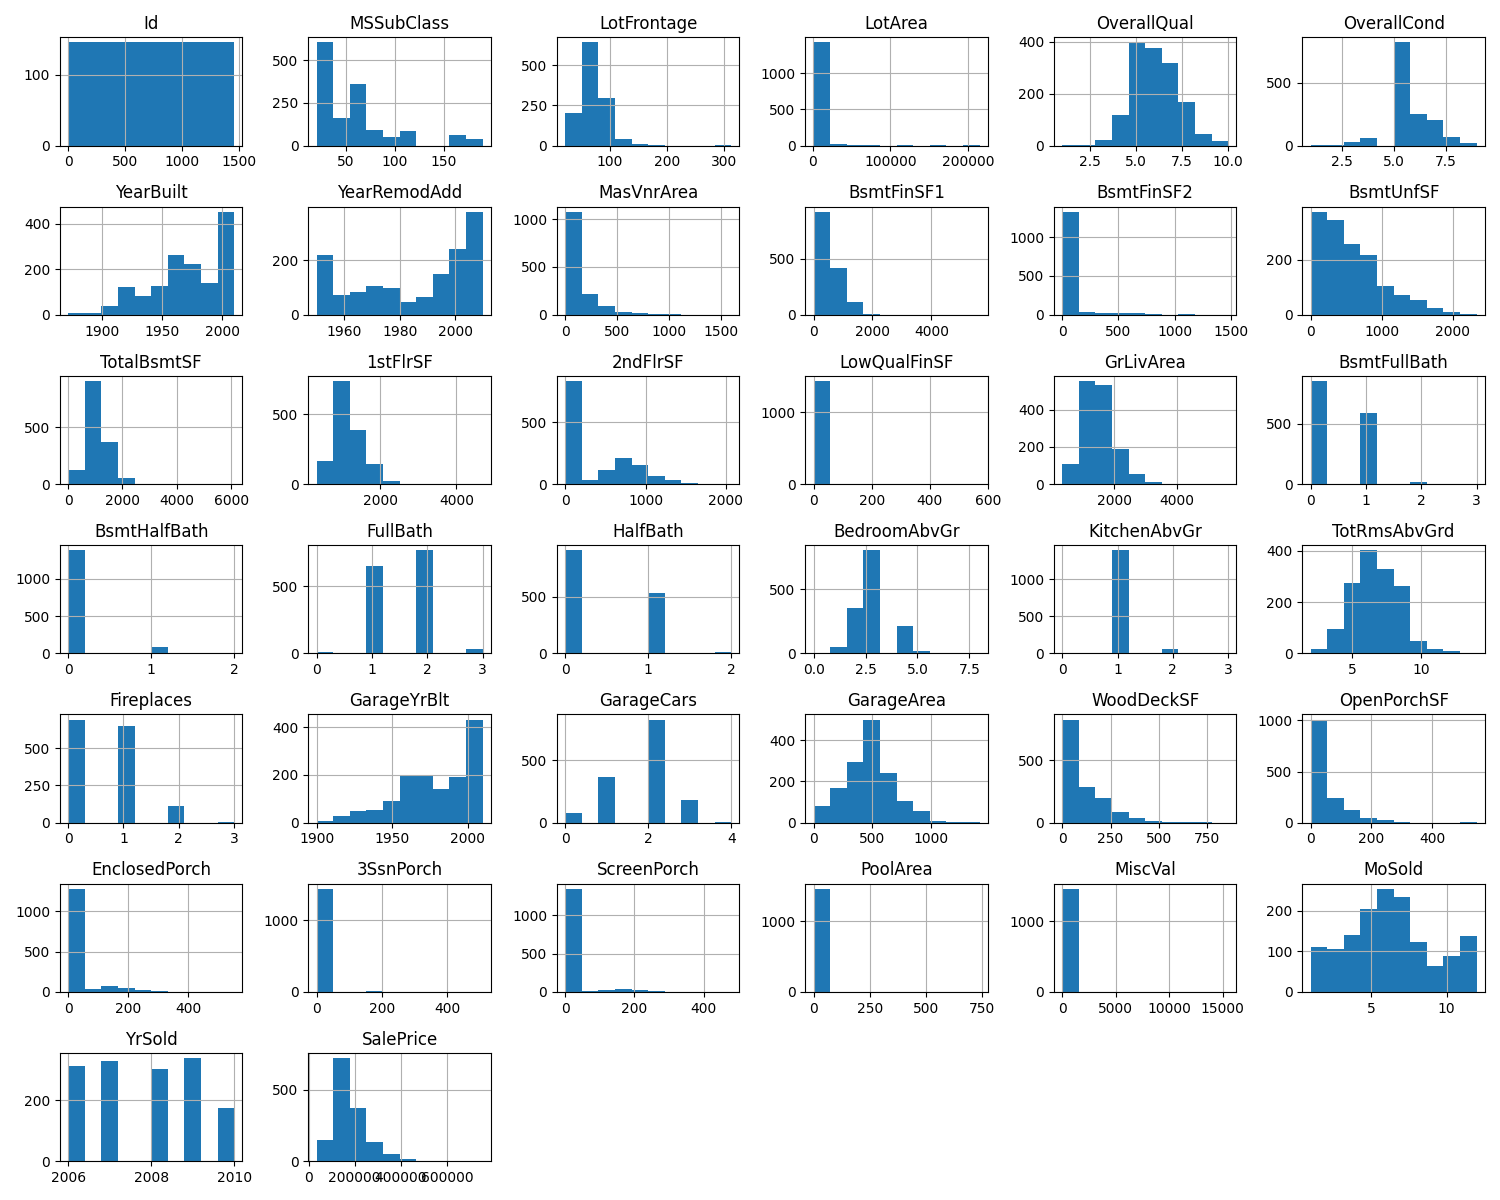
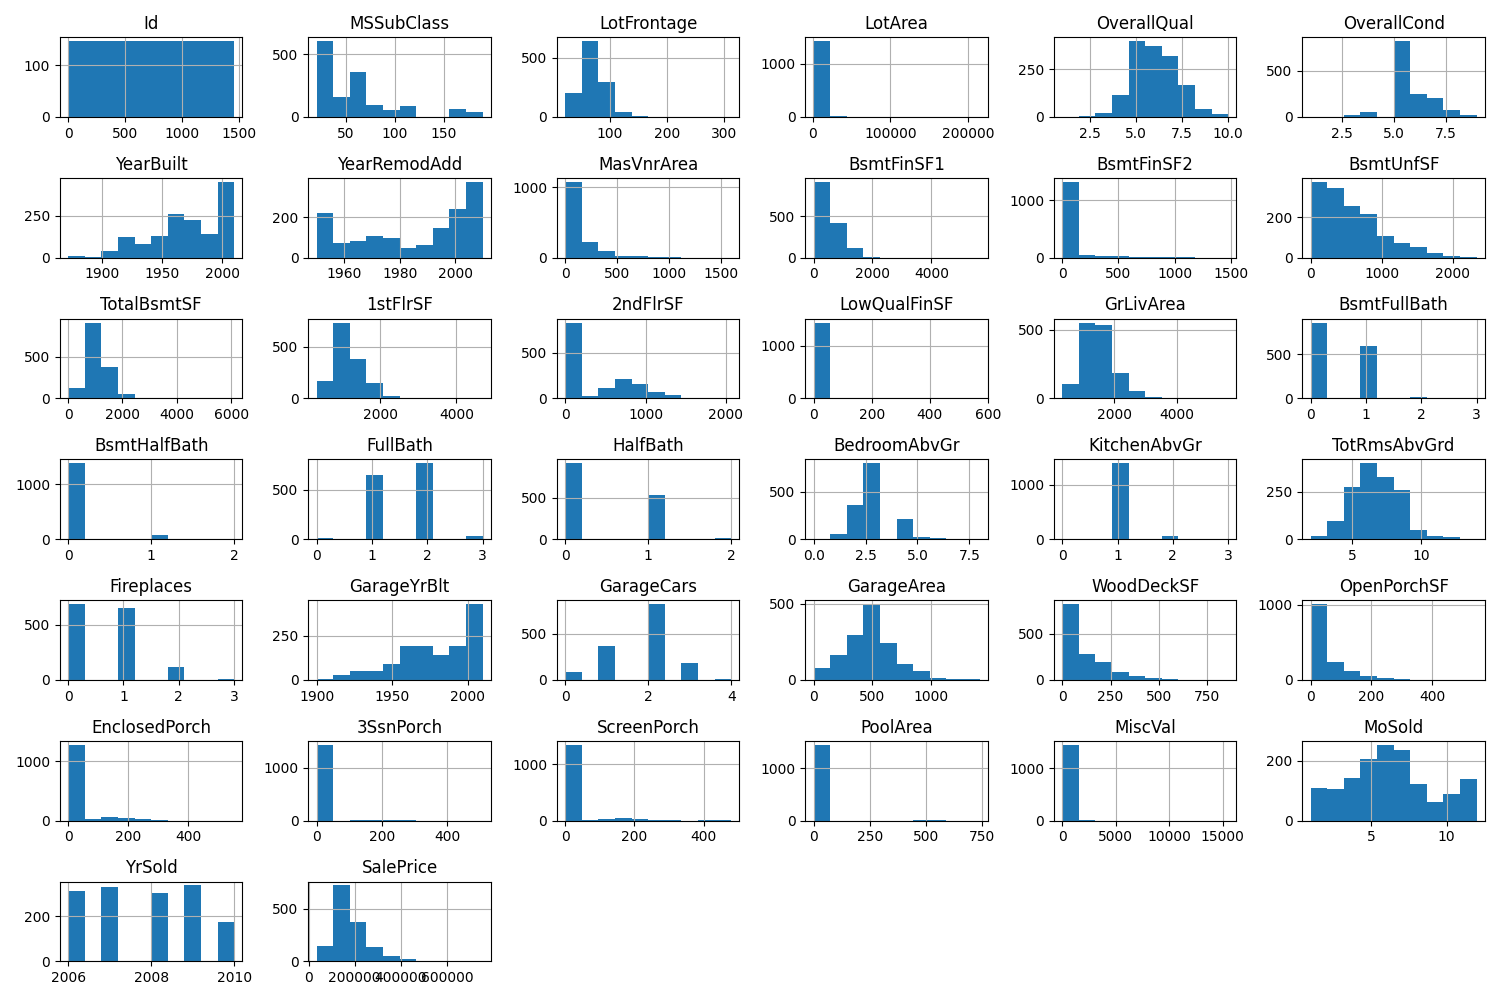
Revision del script en el ejercicio Uno deacuardo con las modificaciones del trabajo final

diff --git a/ejercicio1_descriptivo.py b/ejercicio1_descriptivo.py
@@ -21,15 +21,7 @@ os.makedirs("output", exist_ok=True)
 
 def cargar_datos(ruta):
     """
-    Carga el dataset desde un fichero CSV.
-
-    Parámetros
-    ----------
-    ruta : str — Ruta al archivo CSV
-
-    Retorna
-    -------
-    df : pd.DataFrame — Dataset cargado
+    Carga el dataset desde un fichero CSV
     """
     return pd.read_csv(ruta)
 
@@ -40,11 +32,12 @@ def cargar_datos(ruta):
 
 def resumen_estructural(df):
     """
-    Muestra información básica del dataset.
+    Muestra información general del dataset
     """
     print("\n--- RESUMEN ESTRUCTURAL ---")
     print(f"Filas: {df.shape[0]}")
     print(f"Columnas: {df.shape[1]}")
+
     print("\nTipos de datos:")
     print(df.dtypes)
 
@@ -58,33 +51,28 @@ def resumen_estructural(df):
 
 def estadisticos_descriptivos(df, target):
     """
-    Calcula estadísticos descriptivos y guarda CSV.
+    Calcula estadísticas principales del dataset
     """
     df.describe().to_csv("output/ej1_descriptivo.csv")
 
-    # IQR
     Q1 = df[target].quantile(0.25)
     Q3 = df[target].quantile(0.75)
     IQR = Q3 - Q1
 
     print("\n--- ESTADÍSTICOS TARGET ---")
-    print(f"IQR ({target}): {IQR}")
-
+    print(f"IQR: {IQR}")
     print(f"Skewness: {df[target].skew()}")
     print(f"Curtosis: {df[target].kurtosis()}")
 
-    return IQR
-
-
 # =============================================================================
-# VISUALIZACIONES NUMÉRICAS
+# VISUALIZACIONES
 # =============================================================================
 
 def graficar_histogramas(df):
     """
-    Genera histogramas de variables numéricas.
+    Histogramas de variables numéricas
     """
-    df.select_dtypes(include=np.number).hist(figsize=(15, 12))
+    df.select_dtypes(include=np.number).hist(figsize=(15, 10))
     plt.tight_layout()
     plt.savefig("output/ej1_histogramas.png")
     plt.close()
@@ -92,16 +80,16 @@ def graficar_histogramas(df):
 
 def graficar_heatmap(df):
     """
-    Genera heatmap de correlaciones.
+    Matriz de correlación
     """
     corr = df.corr(numeric_only=True)
 
     plt.figure(figsize=(12, 8))
     sns.heatmap(corr, cmap="coolwarm", center=0)
     plt.title("Matriz de correlación")
-    plt.savefig("output/ej1_heatmap_correlacion.png")
-    plt.close()
 
+    plt.savefig("output/ej1_heatmap.png")
+    plt.close()
 
 # =============================================================================
 # VARIABLES CATEGÓRICAS
@@ -109,24 +97,13 @@ def graficar_heatmap(df):
 
 def analizar_categoricas(df):
     """
-    Analiza variables categóricas y genera gráficos.
+    Análisis de variables categóricas
     """
-    cat_cols = df.select_dtypes(include=['object', 'string']).columns
+    cat_cols = df.select_dtypes(include=["object", "string"]).columns
 
     for col in cat_cols:
         print(f"\n--- {col} ---")
         print(df[col].value_counts(normalize=True))
-
-    plt.figure(figsize=(15, 10))
-    for i, col in enumerate(cat_cols[:4]):  # limitamos a 4 para no saturar
-        plt.subplot(2, 2, i+1)
-        df[col].value_counts().plot(kind='bar')
-        plt.title(col)
-
-    plt.tight_layout()
-    plt.savefig("output/ej1_categoricas.png")
-    plt.close()
-
 
 # =============================================================================
 # BOXPLOTS Y OUTLIERS
@@ -134,13 +111,14 @@ def analizar_categoricas(df):
 
 def boxplots_por_categoria(df, target):
     """
-    Genera boxplots del target por variables categóricas.
+    Boxplots del target según variables categóricas
     """
-    cat_cols = df.select_dtypes(include=['object', 'string']).columns[:3]
+    cat_cols = df.select_dtypes(include=["object", "string"]).columns[:3]
 
     plt.figure(figsize=(15, 5))
+
     for i, col in enumerate(cat_cols):
-        plt.subplot(1, 3, i+1)
+        plt.subplot(1, 3, i + 1)
         sns.boxplot(x=col, y=target, data=df)
         plt.xticks(rotation=45)
 
@@ -151,7 +129,7 @@ def boxplots_por_categoria(df, target):
 
 def detectar_outliers(df, target):
     """
-    Detecta outliers usando IQR y guarda resultados.
+    Detección de outliers con IQR
     """
     Q1 = df[target].quantile(0.25)
     Q3 = df[target].quantile(0.75)
@@ -167,14 +145,13 @@ def detectar_outliers(df, target):
 
     print(f"\nOutliers detectados: {len(outliers)}")
 
-
 # =============================================================================
 # CORRELACIONES
 # =============================================================================
 
 def analizar_correlaciones(df, target):
     """
-    Identifica variables más correlacionadas con el target.
+    Correlaciones con la variable objetivo
     """
     corr = df.corr(numeric_only=True)[target].abs().sort_values(ascending=False)
 
@@ -183,11 +160,11 @@ def analizar_correlaciones(df, target):
 
     print("\n--- MULTICOLINEALIDAD (|r| > 0.9) ---")
     matriz = df.corr(numeric_only=True).abs()
+
     for i in range(len(matriz.columns)):
         for j in range(i):
             if matriz.iloc[i, j] > 0.9:
                 print(matriz.columns[i], "-", matriz.columns[j], matriz.iloc[i, j])
-
 
 # =============================================================================
 # MAIN
@@ -216,4 +193,4 @@ if __name__ == "__main__":
 
     analizar_correlaciones(df, TARGET)
 
-    print("\n[OK] Ejercicio 1 completado")
+    print("\nEjercicio 1 completado correctamente")
